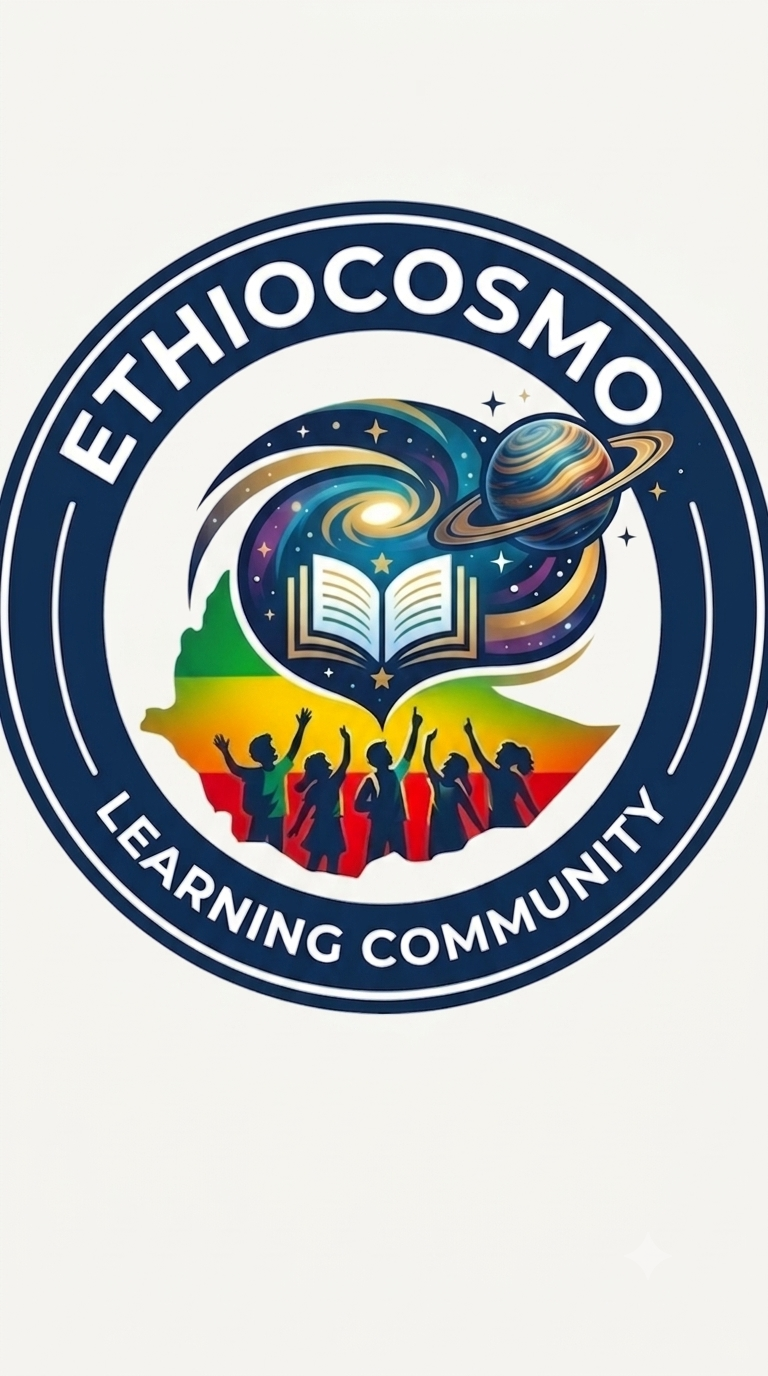
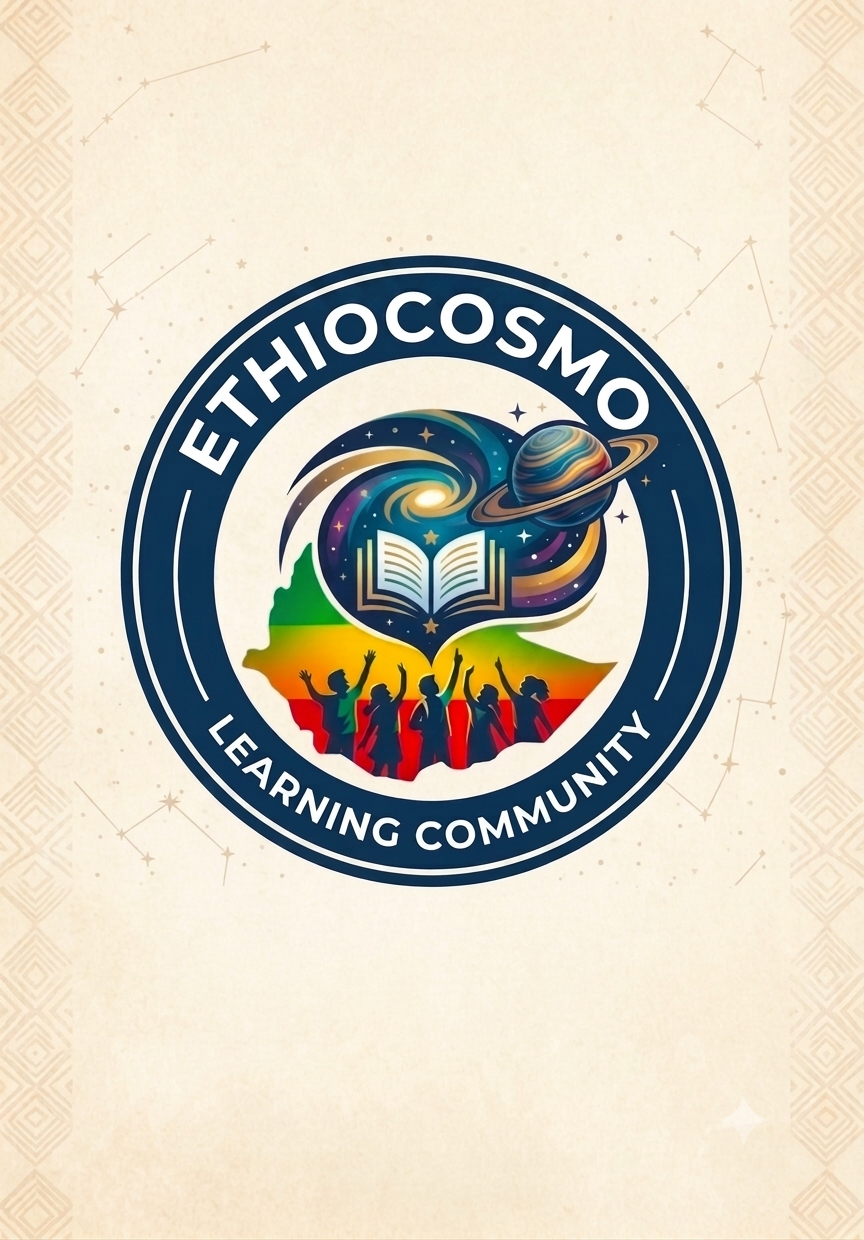
Replace homepage background with new image (1000073033.png) with v12 cache version

diff --git a/public/sw.js b/public/sw.js
@@ -7,7 +7,7 @@
 // 4. Network-first for API calls with cache fallback
 // 5. Cache-first for static assets with network refresh
 
-const CACHE_VERSION = 'v11';
+const CACHE_VERSION = 'v12';
 const STATIC_CACHE = `ethio-cosmos-static-${CACHE_VERSION}`;
 const API_CACHE = `ethio-cosmos-api-${CACHE_VERSION}`;
 const IMAGE_CACHE = `ethio-cosmos-images-${CACHE_VERSION}`;
